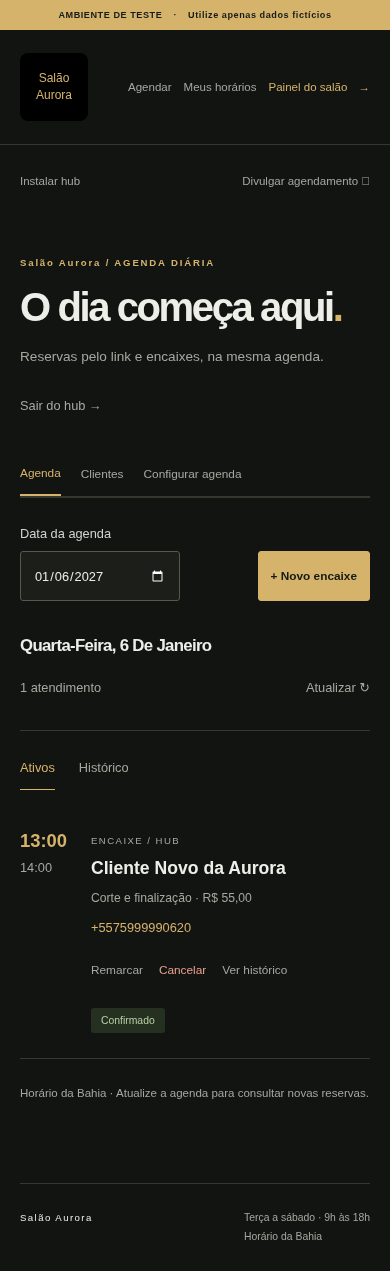
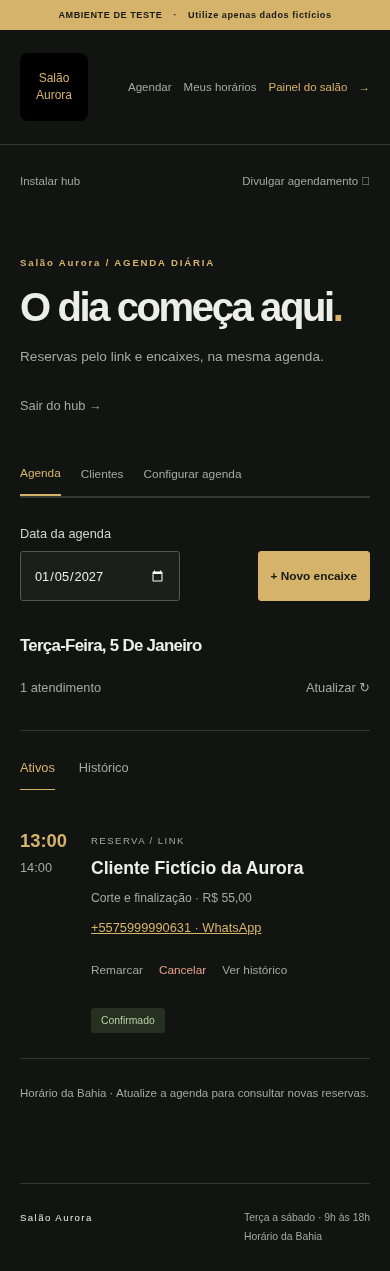
Abre conversa no WhatsApp ao tocar no telefone do cliente

Changed region(s): [[0.4, 0.6444, 0.6769, 0.7364], [0.0615, 0.491, 0.5538, 0.5216], [0.7077, 0.6751, 0.7692, 0.7057]]

diff --git a/src/client/main.ts b/src/client/main.ts
@@ -258,14 +258,14 @@ function renderAgenda(): void {
   const today = localDate();
   shell(`<section class="hub-heading"><div><span class="eyebrow">${escape(shopName())} / AGENDA DIÁRIA</span><h1>O dia começa aqui<span>.</span></h1><p class="muted">Reservas pelo link e encaixes, na mesma agenda.</p></div><button class="text-button" data-action="logout">Sair do hub →</button></section>
     ${hubTabs()}<section class="agenda"><div class="agenda-toolbar"><div><label for="agenda-date">Data da agenda</label><input type="date" id="agenda-date" value="${state.date}" max="${addDays(today, 90)}"></div><button class="primary" data-action="new">+ Novo encaixe</button></div><div class="agenda-day"><h2>${escape(dateLabel(state.date))}</h2><div><span>${state.appointments.length} atendimento${state.appointments.length !== 1 ? 's' : ''}</span><button class="text-button" data-action="refresh">Atualizar ↻</button></div></div><nav class="agenda-filters" aria-label="Situação dos atendimentos"><button class="text-button" data-action="active-bookings" aria-pressed="${state.agendaStatus === 'confirmed'}">Ativos</button><button class="text-button" data-action="booking-history" aria-pressed="${state.agendaStatus === 'all'}">Histórico</button></nav>${errorBox()}${state.notice ? `<p class="success-note" role="status">${escape(state.notice)}</p>` : ''}
-    <div aria-live="polite">${state.loading ? '<p class="empty">Carregando agenda…</p>' : state.appointments.length ? `<ol class="appointments">${state.appointments.map((a) => `<li><div class="appointment-time"><strong>${timeLabel(a.starts_at)}</strong><span>${timeLabel(a.ends_at)}</span></div><div class="appointment-info"><span class="tag">${a.origin === 'hub' ? 'ENCAIXE / HUB' : 'RESERVA / LINK'}</span><h3>${escape(a.customer_name)}</h3><p>${escape(a.service_name)} · ${escape(a.price_label)}</p><a href="tel:${escape(a.customer_phone)}">${escape(a.customer_phone)}</a><div class="row-actions">${a.status === 'confirmed' ? `<button class="text-button" data-reschedule="${a.id}">Remarcar</button><button class="text-button danger-text" data-cancel="${a.id}">Cancelar</button>` : ''}<button class="text-button" data-history="${a.id}">Ver histórico</button></div></div><span class="status ${a.status === 'cancelled' ? 'cancelled' : ''}">${a.status === 'cancelled' ? 'Cancelado' : 'Confirmado'}</span></li>`).join('')}</ol>` : '<div class="empty"><span class="empty-icon" aria-hidden="true">◷</span><h3>Um dia cheio de possibilidades.</h3><p>Nenhum atendimento nesta data. Os agendamentos aparecem aqui assim que são confirmados.</p></div>'}</div><p class="note">${zoneLabel()} · Atualize a agenda para consultar novas reservas.</p></section>`);
+    <div aria-live="polite">${state.loading ? '<p class="empty">Carregando agenda…</p>' : state.appointments.length ? `<ol class="appointments">${state.appointments.map((a) => `<li><div class="appointment-time"><strong>${timeLabel(a.starts_at)}</strong><span>${timeLabel(a.ends_at)}</span></div><div class="appointment-info"><span class="tag">${a.origin === 'hub' ? 'ENCAIXE / HUB' : 'RESERVA / LINK'}</span><h3>${escape(a.customer_name)}</h3><p>${escape(a.service_name)} · ${escape(a.price_label)}</p><a href="https://wa.me/${escape(a.customer_phone.replace(/\D/g, ''))}" target="_blank" rel="noopener noreferrer" aria-label="Conversar com ${escape(a.customer_name)} pelo WhatsApp">${escape(a.customer_phone)} · WhatsApp</a><div class="row-actions">${a.status === 'confirmed' ? `<button class="text-button" data-reschedule="${a.id}">Remarcar</button><button class="text-button danger-text" data-cancel="${a.id}">Cancelar</button>` : ''}<button class="text-button" data-history="${a.id}">Ver histórico</button></div></div><span class="status ${a.status === 'cancelled' ? 'cancelled' : ''}">${a.status === 'cancelled' ? 'Cancelado' : 'Confirmado'}</span></li>`).join('')}</ol>` : '<div class="empty"><span class="empty-icon" aria-hidden="true">◷</span><h3>Um dia cheio de possibilidades.</h3><p>Nenhum atendimento nesta data. Os agendamentos aparecem aqui assim que são confirmados.</p></div>'}</div><p class="note">${zoneLabel()} · Atualize a agenda para consultar novas reservas.</p></section>`);
 }
 function hubTabs(): string {
   return `<nav class="hub-tabs" aria-label="Painel do estabelecimento"><button class="text-button" data-action="agenda-view" aria-pressed="${state.hubView === 'agenda'}">Agenda</button><button class="text-button" data-action="customers" aria-pressed="${state.hubView === 'customers'}">Clientes</button><button class="text-button" data-action="settings" aria-pressed="${state.hubView === 'settings'}">Configurar agenda</button></nav>`;
 }
 function renderCustomers(): void {
   shell(
-    `<section class="hub-heading"><div><span class="eyebrow">${escape(shopName())} / CLIENTES</span><h1>Seus clientes<span>.</span></h1><p class="muted">Clientes cadastrados nos agendamentos de ${escape(shopName())}.</p></div><button class="text-button" data-action="logout">Sair do hub →</button></section>${hubTabs()}<section class="agenda">${errorBox()}${state.notice ? `<p class="success-note" role="status">${escape(state.notice)}</p>` : ''}<button class="primary" data-action="customer-form">${state.customerForm ? 'Fechar cadastro' : '+ Cadastrar cliente'}</button>${state.customerForm ? `<form id="register-customer" class="customer-register settings-card"><h2>Cadastrar cliente</h2><label for="customer-name">Nome completo do cliente<input id="customer-name" required minlength="5" maxlength="100" autocomplete="name" value="${escape(state.newCustomerName)}"></label><label for="customer-phone">Celular do cliente com DDD<input id="customer-phone" type="tel" autocomplete="tel" required maxlength="20" value="${escape(state.newCustomerPhone)}"></label><button class="primary" ${state.busy ? 'disabled' : ''}>${state.busy ? 'Salvando…' : 'Salvar cliente'}</button></form>` : ''}${state.loading ? '<p class="empty" role="status">Carregando clientes…</p>' : state.customers.length ? `<ul class="customers">${state.customers.map((c) => `<li><h3>${escape(c.full_name)}</h3><a href="tel:${escape(c.phone)}">${escape(c.phone)}</a><button class="text-button" data-customer-book="${escape(c.id)}">Marcar horário</button></li>`).join('')}</ul>` : '<p class="empty">Nenhum cliente cadastrado neste estabelecimento.</p>'}${state.customerCursor ? '<button class="primary" data-action="more-customers">Carregar mais clientes</button>' : ''}</section>`,
+    `<section class="hub-heading"><div><span class="eyebrow">${escape(shopName())} / CLIENTES</span><h1>Seus clientes<span>.</span></h1><p class="muted">Clientes cadastrados nos agendamentos de ${escape(shopName())}.</p></div><button class="text-button" data-action="logout">Sair do hub →</button></section>${hubTabs()}<section class="agenda">${errorBox()}${state.notice ? `<p class="success-note" role="status">${escape(state.notice)}</p>` : ''}<button class="primary" data-action="customer-form">${state.customerForm ? 'Fechar cadastro' : '+ Cadastrar cliente'}</button>${state.customerForm ? `<form id="register-customer" class="customer-register settings-card"><h2>Cadastrar cliente</h2><label for="customer-name">Nome completo do cliente<input id="customer-name" required minlength="5" maxlength="100" autocomplete="name" value="${escape(state.newCustomerName)}"></label><label for="customer-phone">Celular do cliente com DDD<input id="customer-phone" type="tel" autocomplete="tel" required maxlength="20" value="${escape(state.newCustomerPhone)}"></label><button class="primary" ${state.busy ? 'disabled' : ''}>${state.busy ? 'Salvando…' : 'Salvar cliente'}</button></form>` : ''}${state.loading ? '<p class="empty" role="status">Carregando clientes…</p>' : state.customers.length ? `<ul class="customers">${state.customers.map((c) => `<li><h3>${escape(c.full_name)}</h3><a href="https://wa.me/${escape(c.phone.replace(/\D/g, ''))}" target="_blank" rel="noopener noreferrer" aria-label="Conversar com ${escape(c.full_name)} pelo WhatsApp">${escape(c.phone)} · WhatsApp</a><button class="text-button" data-customer-book="${escape(c.id)}">Marcar horário</button></li>`).join('')}</ul>` : '<p class="empty">Nenhum cliente cadastrado neste estabelecimento.</p>'}${state.customerCursor ? '<button class="primary" data-action="more-customers">Carregar mais clientes</button>' : ''}</section>`,
   );
 }
 let customerRequest = 0;

diff --git a/docs/cliente-hub.md b/docs/cliente-hub.md
@@ -20,7 +20,7 @@ Permanece a regra de cancelamento sem custo com pelo menos duas horas de anteced
 
 ## Hub no celular
 
-Cada `/s/<slug>/hub` mantém agenda diária, encaixes, clientes e configurações de disponibilidade. O cadastro de cliente pode ser feito sem reservar horário. **Marcar horário** preenche o encaixe com os dados escolhidos. Um telefone já cadastrado com outro nome não é sobrescrito silenciosamente.
+Cada `/s/<slug>/hub` mantém agenda diária, encaixes, clientes e configurações de disponibilidade. O cadastro de cliente pode ser feito sem reservar horário. **Marcar horário** preenche o encaixe com os dados escolhidos. Um telefone já cadastrado com outro nome não é sobrescrito silenciosamente. O nome completo e o telefone aparecem na agenda e na lista de clientes. Tocar no número abre a conversa com aquele cliente no WhatsApp, sem mensagem preenchida ou envio automático; o barbeiro escreve e envia pela própria conta conectada no aparelho.
 
 **Divulgar agendamento** oferece o link público daquele estabelecimento, botão para copiá-lo, compartilhamento manual pelo WhatsApp e QR Code em PNG. O barbeiro escolhe o destinatário e confirma no WhatsApp. O QR contém somente o link público, sem clientes, senhas ou links privados. TOMAZ e Aurora têm links e QR Codes diferentes.
 
